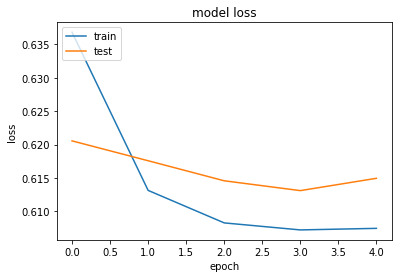
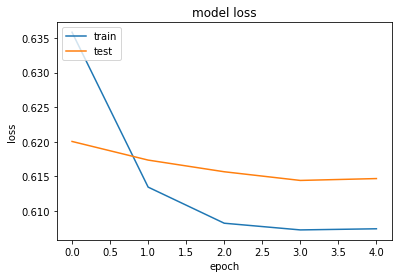
add collaborative filtering hf model and space

diff --git a/examples/structured_data/collaborative_filtering_movielens.py b/examples/structured_data/collaborative_filtering_movielens.py
@@ -153,7 +153,8 @@ class RecommenderNet(keras.Model):
 
 model = RecommenderNet(num_users, num_movies, EMBEDDING_SIZE)
 model.compile(
-    loss=tf.keras.losses.BinaryCrossentropy(), optimizer=keras.optimizers.Adam(lr=0.001)
+    loss=tf.keras.losses.BinaryCrossentropy(),
+    optimizer=keras.optimizers.Adam(learning_rate=0.001),
 )
 
 """
@@ -224,3 +225,11 @@ print("----" * 8)
 recommended_movies = movie_df[movie_df["movieId"].isin(recommended_movie_ids)]
 for row in recommended_movies.itertuples():
     print(row.title, ":", row.genres)
+
+"""
+**Example available on HuggingFace**
+
+| Trained Model | Demo |
+| :--: | :--: |
+| [![Generic badge](https://img.shields.io/badge/%F0%9F%A4%97%20Model-Collaborative%20Filtering-black.svg)](https://huggingface.co/keras-io/collaborative-filtering-movielens) | [![Generic badge](https://img.shields.io/badge/%F0%9F%A4%97%20Spaces-Collaborative%20Filtering-black.svg)](https://huggingface.co/spaces/keras-io/collaborative-filtering-movielens) |
+"""

diff --git a/examples/structured_data/md/collaborative_filtering_movielens.md b/examples/structured_data/md/collaborative_filtering_movielens.md
@@ -35,7 +35,6 @@ the a match score between the user and the movie (predicted rating).
 - [Neural Collaborative Filtering](https://dl.acm.org/doi/pdf/10.1145/3038912.3052569)
 
 
-
 ```python
 import pandas as pd
 import numpy as np
@@ -45,12 +44,10 @@ from tensorflow import keras
 from tensorflow.keras import layers
 from pathlib import Path
 import matplotlib.pyplot as plt
-
 ```
 
 ---
 ## First, load the data and apply preprocessing
-
 
 
 ```python
@@ -75,11 +72,9 @@ if not movielens_dir.exists():
 
 ratings_file = movielens_dir / "ratings.csv"
 df = pd.read_csv(ratings_file)
-
 ```
 
 First, need to perform some preprocessing to encode users and movies as integer indices.
-
 
 
 ```python
@@ -104,7 +99,6 @@ print(
         num_users, num_movies, min_rating, max_rating
     )
 )
-
 ```
 
 <div class="k-default-codeblock">
@@ -115,7 +109,6 @@ Number of users: 610, Number of Movies: 9724, Min rating: 0.5, Max rating: 5.0
 </div>
 ---
 ## Prepare training and validation data
-
 
 
 ```python
@@ -131,7 +124,6 @@ x_train, x_val, y_train, y_val = (
     y[:train_indices],
     y[train_indices:],
 )
-
 ```
 
 ---
@@ -142,7 +134,6 @@ We embed both users and movies in to 50-dimensional vectors.
 The model computes a match score between user and movie embeddings via a dot product,
 and adds a per-movie and per-user bias. The match score is scaled to the `[0, 1]`
 interval via a sigmoid (since our ratings are normalized to this range).
-
 
 
 ```python
@@ -184,14 +175,13 @@ class RecommenderNet(keras.Model):
 
 model = RecommenderNet(num_users, num_movies, EMBEDDING_SIZE)
 model.compile(
-    loss=tf.keras.losses.BinaryCrossentropy(), optimizer=keras.optimizers.Adam(lr=0.001)
+    loss=tf.keras.losses.BinaryCrossentropy(),
+    optimizer=keras.optimizers.Adam(learning_rate=0.001),
 )
-
 ```
 
 ---
 ## Train the model based on the data split
-
 
 
 ```python
@@ -203,27 +193,25 @@ history = model.fit(
     verbose=1,
     validation_data=(x_val, y_val),
 )
-
 ```
 
 <div class="k-default-codeblock">
 ```
 Epoch 1/5
-1418/1418 [==============================] - 6s 4ms/step - loss: 0.6368 - val_loss: 0.6206
+1418/1418 [==============================] - 9s 6ms/step - loss: 0.6358 - val_loss: 0.6200
 Epoch 2/5
-1418/1418 [==============================] - 7s 5ms/step - loss: 0.6131 - val_loss: 0.6176
+1418/1418 [==============================] - 11s 8ms/step - loss: 0.6134 - val_loss: 0.6173
 Epoch 3/5
-1418/1418 [==============================] - 6s 4ms/step - loss: 0.6083 - val_loss: 0.6146
+1418/1418 [==============================] - 14s 10ms/step - loss: 0.6082 - val_loss: 0.6156
 Epoch 4/5
-1418/1418 [==============================] - 6s 4ms/step - loss: 0.6072 - val_loss: 0.6131
+1418/1418 [==============================] - 15s 10ms/step - loss: 0.6072 - val_loss: 0.6144
 Epoch 5/5
-1418/1418 [==============================] - 6s 4ms/step - loss: 0.6075 - val_loss: 0.6150
+1418/1418 [==============================] - 13s 9ms/step - loss: 0.6074 - val_loss: 0.6147
 
 ```
 </div>
 ---
 ## Plot training and validation loss
-
 
 
 ```python
@@ -234,16 +222,16 @@ plt.ylabel("loss")
 plt.xlabel("epoch")
 plt.legend(["train", "test"], loc="upper left")
 plt.show()
-
 ```
 
 
+    
 ![png](/img/examples/structured_data/collaborative_filtering_movielens/collaborative_filtering_movielens_14_0.png)
+    
 
 
 ---
 ## Show top 10 movie recommendations to a user
-
 
 
 ```python
@@ -288,33 +276,38 @@ print("----" * 8)
 recommended_movies = movie_df[movie_df["movieId"].isin(recommended_movie_ids)]
 for row in recommended_movies.itertuples():
     print(row.title, ":", row.genres)
-
 ```
 
 <div class="k-default-codeblock">
 ```
-Showing recommendations for user: 474
+302/302 [==============================] - 0s 800us/step
+Showing recommendations for user: 213
 ====================================
 Movies with high ratings from user
 --------------------------------
-Fugitive, The (1993) : Thriller
-Remains of the Day, The (1993) : Drama|Romance
-West Side Story (1961) : Drama|Musical|Romance
-X2: X-Men United (2003) : Action|Adventure|Sci-Fi|Thriller
-Spider-Man 2 (2004) : Action|Adventure|Sci-Fi|IMAX
+Terminator 2: Judgment Day (1991) : Action|Sci-Fi
+Rocky (1976) : Drama
+Big Fish (2003) : Drama|Fantasy|Romance
+Shrek 2 (2004) : Adventure|Animation|Children|Comedy|Musical|Romance
+13 Assassins (Jûsan-nin no shikaku) (2010) : Action
 --------------------------------
 Top 10 movie recommendations
 --------------------------------
-Dazed and Confused (1993) : Comedy
-Ghost in the Shell (Kôkaku kidôtai) (1995) : Animation|Sci-Fi
-Drugstore Cowboy (1989) : Crime|Drama
-Road Warrior, The (Mad Max 2) (1981) : Action|Adventure|Sci-Fi|Thriller
-Dark Knight, The (2008) : Action|Crime|Drama|IMAX
-Inglourious Basterds (2009) : Action|Drama|War
-Up (2009) : Adventure|Animation|Children|Drama
-Dark Knight Rises, The (2012) : Action|Adventure|Crime|IMAX
-Star Wars: Episode VII - The Force Awakens (2015) : Action|Adventure|Fantasy|Sci-Fi|IMAX
-Thor: Ragnarok (2017) : Action|Adventure|Sci-Fi
+Usual Suspects, The (1995) : Crime|Mystery|Thriller
+Star Wars: Episode IV - A New Hope (1977) : Action|Adventure|Sci-Fi
+Shawshank Redemption, The (1994) : Crime|Drama
+Schindler's List (1993) : Drama|War
+Dr. Strangelove or: How I Learned to Stop Worrying and Love the Bomb (1964) : Comedy|War
+Godfather: Part II, The (1974) : Crime|Drama
+Amelie (Fabuleux destin d'Amélie Poulain, Le) (2001) : Comedy|Romance
+28 Days Later (2002) : Action|Horror|Sci-Fi
+Little Miss Sunshine (2006) : Adventure|Comedy|Drama
+Hurt Locker, The (2008) : Action|Drama|Thriller|War
 
 ```
 </div>
+**Example available on HuggingFace**
+
+| Trained Model | Demo |
+| :--: | :--: |
+| [![Generic badge](https://img.shields.io/badge/%F0%9F%A4%97%20Model-Collaborative%20Filtering-black.svg)](https://huggingface.co/keras-io/collaborative-filtering-movielens) | [![Generic badge](https://img.shields.io/badge/%F0%9F%A4%97%20Spaces-Collaborative%20Filtering-black.svg)](https://huggingface.co/spaces/keras-io/collaborative-filtering-movielens) |
